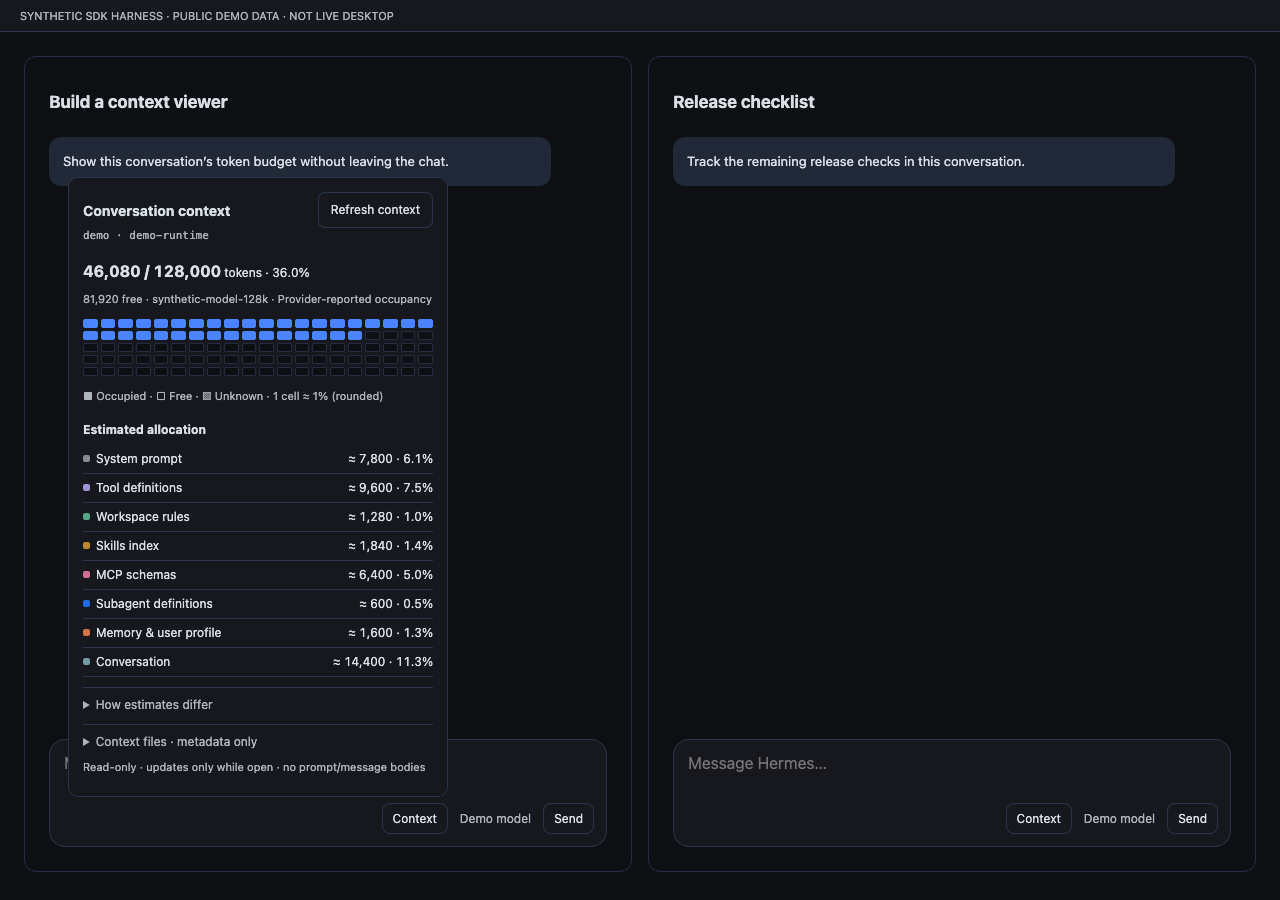
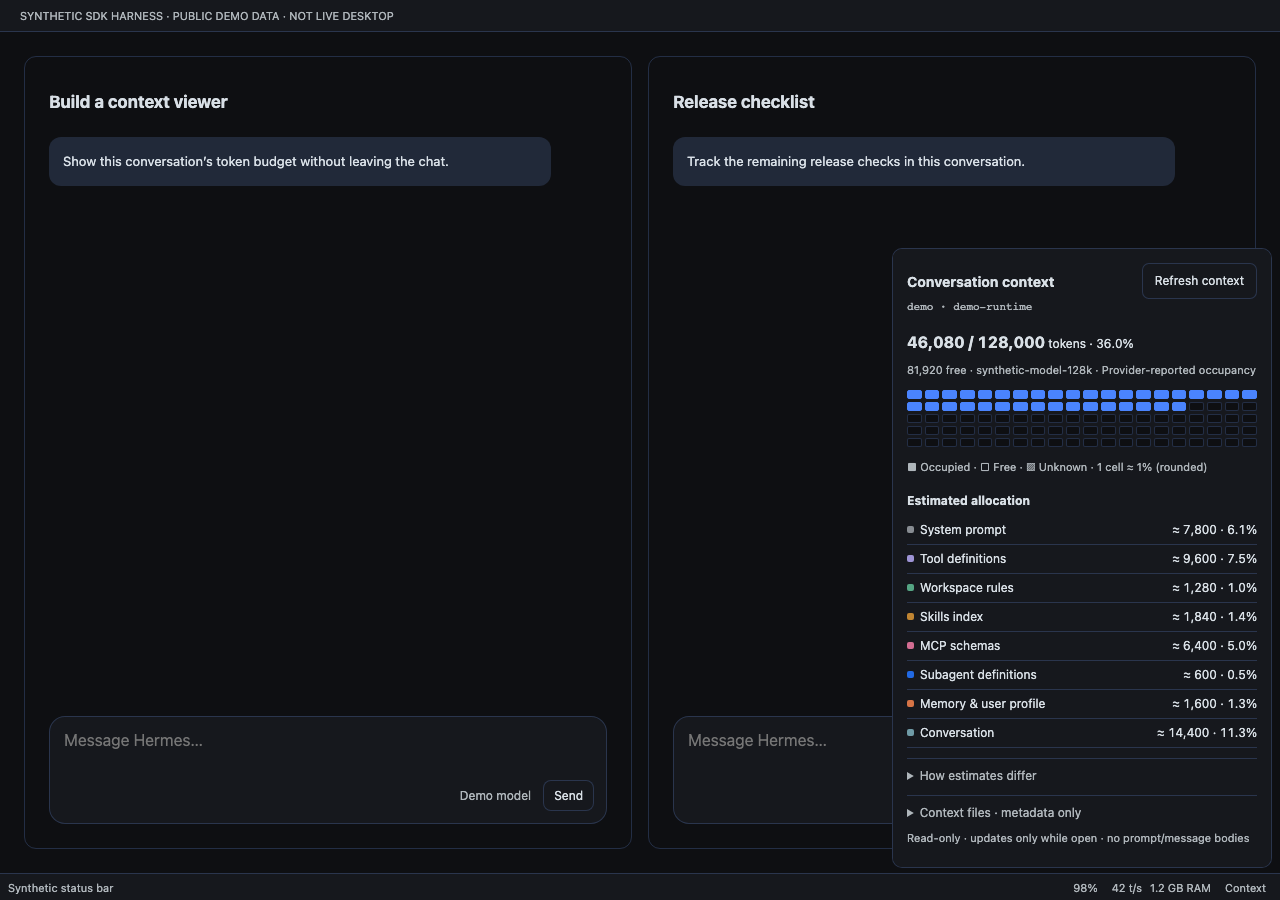
feat: move conversation context to bottom status bar

diff --git a/desktop/plugin.js b/desktop/plugin.js
@@ -55,11 +55,14 @@ function snapshot() {
   return { session, profile, connection, owner, focusedProfile, gateway: state.gateway.get(), instance: gatewayKey(), epoch: epochs.get() }
 }
 const stamp = value => JSON.stringify([value.connection, value.profile, value.owner?.connectionId, value.focusedProfile, value.session, value.gateway, value.instance, value.epoch])
-function routeFor(scope) {
-  if (!host.state.focusedSessionId || !host.state.focusedSessionOwner || !scope.owner) return { blocked: 'Session ownership is unresolved. A Desktop SDK with focused session ownership is required.' }
-  const connectionId = scope.owner?.connectionId ?? scope.connection
+const ownerKnown = scope => Boolean(host.state.focusedSessionId && host.state.focusedSessionOwner && typeof scope.owner?.connectionId === 'string' && scope.owner.connectionId && typeof scope.owner?.profile === 'string' && scope.owner.profile)
+async function routeFor(scope) {
+  if (!ownerKnown(scope)) return { blocked: 'Session ownership is unresolved. A Desktop SDK with focused session ownership is required.' }
+  const connectionId = scope.owner.connectionId
   if (connectionId === scope.connection && scope.focusedProfile === scope.profile) return { ambient: true }
-  const routes = host.profileRoutes?.() ?? []
+  let routes
+  try { routes = await host.profileRoutes?.() } catch { return { blocked: 'Connection/profile route discovery failed. Retry after the owning connection is available.' } }
+  if (!Array.isArray(routes)) return { blocked: 'Connection/profile route discovery is unavailable.' }
   const matches = routes.filter(route => route.connectionId === connectionId && (route.profile === scope.focusedProfile || route.targetProfile === scope.focusedProfile))
   if (matches.length === 1 && typeof host.requestProfile === 'function') return { route: matches[0] }
   return { blocked: 'The focused session has no unique connection/profile route. Return to its owning profile to view context.' }
@@ -95,16 +98,18 @@ function ContextPanel({ scope }) {
   const [revision, setRevision] = useState(0)
   const identity = stamp(scope)
   const busy = sessionBusy(scope)
-  const route = routeFor(scope)
+  const ownershipMissing = !ownerKnown(scope)
   const valid = () => identity === stamp(snapshot())
-  const enabled = Boolean(valid() && scope.session && scope.gateway === 'open' && !busy && !route.blocked)
+  const enabled = Boolean(valid() && scope.session && scope.gateway === 'open' && !busy && !ownershipMissing)
   const query = useQuery({
     queryKey: [ID, identity, busy, revision], enabled,
     queryFn: async ({ signal }) => {
       if (signal.aborted || !valid() || sessionBusy(scope)) throw new Error('scope-changed')
       // Resolve again at dispatch: a disconnected profile descriptor is not authority.
-      const target = routeFor(scope)
-      if (target.blocked) throw new Error('scope-changed')
+      const target = await routeFor(scope)
+      // Route discovery is asynchronous; no captured owner may dispatch after it changes.
+      if (signal.aborted || !valid() || sessionBusy(scope)) throw new Error('scope-changed')
+      if (target.blocked) throw Object.assign(new Error(target.blocked), { code: 'route-unavailable' })
       const params = { session_id: scope.session }
       const payload = target.ambient ? await host.request('session.context_breakdown', params, 15000) : await host.requestProfile(target.route, 'session.context_breakdown', params, 15000)
       if (signal.aborted || !valid() || sessionBusy(scope)) throw new Error('scope-changed')
@@ -113,7 +118,7 @@ function ContextPanel({ scope }) {
       return value
     },
     staleTime: 15000, gcTime: 0,
-    retry: (count, error) => valid() && !sessionBusy(scope) && count < 2 && error?.message !== 'scope-changed' && ![-32601, 4004].includes(error?.code) && !/method.*(not found|unknown)|unknown method/i.test(error?.message ?? ''),
+    retry: (count, error) => valid() && !sessionBusy(scope) && count < 2 && error?.message !== 'scope-changed' && !['route-unavailable', -32601, 4004].includes(error?.code) && !/method.*(not found|unknown)|unknown method/i.test(error?.message ?? ''),
     retryDelay: count => [1000, 4000][Math.min(count, 1)],
     refetchInterval: query => query.state.status === 'error' ? false : 60000,
     refetchIntervalInBackground: false, refetchOnWindowFocus: false, placeholderData: undefined
@@ -134,10 +139,10 @@ function ContextPanel({ scope }) {
   let message = null
   if (!scope.session) message = 'No session yet. Send a message in this conversation first.'
   else if (scope.gateway !== 'open') message = 'Gateway disconnected. Reopen Context after reconnecting.'
-  else if (route.blocked) message = route.blocked
+  else if (ownershipMissing) message = 'Session ownership is unresolved. A Desktop SDK with focused session ownership is required.'
   else if (busy) message = 'Session is busy. Context will refresh when this turn ends.'
   else if (query.isFetching || query.isPending) message = 'Loading context breakdown…'
-  if (!message && query.isError) message = query.error?.message === 'missing-window' ? 'No model window is available yet. Bounded retries finished; refresh after the runtime is ready.' : [-32601, 4004].includes(query.error?.code) || /method.*(not found|unknown)|unknown method/i.test(query.error?.message ?? '') ? 'Context breakdown is unavailable on this gateway. Hermes ≥0.22.2 with session.context_breakdown is required.' : 'Context could not be refreshed. No previous snapshot is shown. Check the gateway and retry.'
+  if (!message && query.isError) message = query.error?.code === 'route-unavailable' ? query.error.message : query.error?.message === 'missing-window' ? 'No model window is available yet. Bounded retries finished; refresh after the runtime is ready.' : [-32601, 4004].includes(query.error?.code) || /method.*(not found|unknown)|unknown method/i.test(query.error?.message ?? '') ? 'Context breakdown is unavailable on this gateway. Hermes ≥0.22.2 with session.context_breakdown is required.' : 'Context could not be refreshed. No previous snapshot is shown. Check the gateway and retry.'
   return jsxs('div', { children: [
     jsxs('header', { className: 'co-header', children: [jsx('h2', { children: 'Conversation context' }), jsx(Button, { type: 'button', variant: 'ghost', size: 'sm', disabled: !enabled || query.isFetching, onClick: refresh, children: 'Refresh context' })] }),
     jsx('code', { className: 'co-muted', children: `${text(scope.focusedProfile)} · ${text(scope.session, 'New conversation')}` }),
@@ -158,8 +163,7 @@ export function ContextControl() {
   const current = stamp(snapshot())
   const valid = Boolean(scope && stamp(scope) === current)
   useEffect(() => { if (scope && !valid) setScope(null) }, [current, valid, scope])
-  // Core window capture pointerdown/focusin routes the owning tree group BEFORE
-  // these handlers. Never display global usage in each closed composer instance.
+  // The status bar preserves the public focused owner; it never selects a composer.
   const arm = () => { activation.current = snapshot() }
   const openChange = open => {
     if (!open) { setScope(null); activation.current = null; return }
@@ -167,7 +171,7 @@ export function ContextControl() {
     if (captured && stamp(captured) === stamp(snapshot())) setScope(captured)
   }
   return jsxs(Popover, { open: valid, onOpenChange: openChange, children: [
-    jsx(PopoverTrigger, { asChild: true, children: jsx(Button, { type: 'button', variant: 'ghost', size: 'sm', onPointerDown: arm, onFocus: arm, onKeyDown: event => { if (event.key === 'Enter' || event.key === ' ') arm() }, children: 'Context' }) }),
+    jsx(PopoverTrigger, { asChild: true, children: jsx(Button, { type: 'button', variant: 'ghost', size: 'sm', style: { height: '100%', padding: '0 6px', border: 0, borderRadius: 0, fontSize: 11, color: 'var(--ui-text-secondary)' }, onPointerDown: arm, onFocus: arm, onKeyDown: event => { if (event.key === 'Enter' || event.key === ' ') arm() }, children: 'Context' }) }),
     valid && jsxs(PopoverContent, { side: 'top', align: 'end', collisionPadding: 8, className: 'hermes-context-overview', 'aria-label': 'Conversation context', onCloseAutoFocus: event => { if (stamp(scope) !== stamp(snapshot())) event.preventDefault() }, children: [jsx('style', { children: styles }), jsx(ContextPanel, { scope }, stamp(scope))] })
   ] })
 }
@@ -183,6 +187,6 @@ export default {
     for (const state of [host.state.connectionId, host.state.profile, host.state.gateway]) {
       if (state?.listen) ctx.onDispose(state.listen(() => epochs.set(epochs.get() + 1)))
     }
-    ctx.register({ id: 'context', area: sdk.COMPOSER_AREAS.actions, render: () => jsx(ContextControl, {}) })
+    ctx.register({ id: 'context', area: 'statusBar.right', render: () => jsx(ContextControl, {}) })
   }
 }

diff --git a/tests/harness-theme.css b/tests/harness-theme.css
@@ -20,8 +20,9 @@
  --context-usage-system:color-mix(in srgb,var(--ui-base) 55%,transparent);--context-usage-tools:var(--ui-purple);--context-usage-rules:var(--ui-green);--context-usage-skills:var(--ui-yellow);--context-usage-mcp:color-mix(in srgb,var(--ui-red) 72%,var(--ui-purple));--context-usage-subagents:color-mix(in srgb,var(--ui-blue) 70%,var(--ui-cyan));--context-usage-memory:color-mix(in srgb,var(--ui-orange) 80%,var(--ui-yellow));--context-usage-conversation:var(--ui-cyan);
 }
 :root.dark {color-scheme:dark;--theme-foreground:#e6edf3;--theme-midground:#4a84fe;--theme-primary:#4a84fe;--theme-card-seed:#010409;--theme-elevated-seed:#161b22;--theme-neutral-card:#161618;--theme-mix-card:38%;--theme-mix-elevated:46%;--ui-red:#e75e78;--ui-green:#55a583;--ui-cyan:#6f9ba6}
+.demo-shell{height:100%;display:flex;flex-direction:column}.demo-shell .demo-conversations{flex:1;min-height:0;height:auto}.demo-statusbar{height:26px;flex:none;border-top:1px solid var(--ui-stroke-secondary);display:flex;align-items:center;justify-content:space-between;font-size:11px;color:var(--ui-text-secondary);padding:0 8px;background:var(--ui-bg-elevated)}.demo-statusbar-right{display:flex;align-items:center;gap:8px;height:100%}.demo-statusbar button{font:inherit;color:inherit;background:transparent;border:0;cursor:pointer}.demo-statusbar button:hover{background:var(--ui-bg-secondary)}.demo-statusbar button:focus-visible{outline:2px solid var(--ui-accent);outline-offset:-2px}
 html,body,#app{height:100%;margin:0}body{font-family:system-ui,sans-serif;background:var(--ui-bg-editor);color:var(--ui-text-primary)}
-.synthetic-banner{padding:9px 20px;font-size:11px;background:var(--ui-bg-elevated);color:var(--ui-text-secondary);border-bottom:1px solid var(--ui-stroke-secondary)}#app{height:calc(100% - 36px)}
+body{display:flex;flex-direction:column}#app{flex:1;min-height:0;height:auto}.synthetic-banner{flex:none;padding:9px 20px;font-size:11px;background:var(--ui-bg-elevated);color:var(--ui-text-secondary);border-bottom:1px solid var(--ui-stroke-secondary)}
 .synthetic-sdk-button{font:inherit;font-size:12px;white-space:nowrap;padding:8px 12px;border-radius:7px;border:1px solid var(--ui-stroke-secondary);background:var(--ui-bg-elevated);color:var(--ui-text-primary);cursor:pointer}.synthetic-sdk-button:disabled{opacity:.55;cursor:default}
 
 .demo-conversations{display:grid;grid-template-columns:1fr 1fr;gap:16px;height:100%;padding:24px;box-sizing:border-box}.demo-conversation{min-width:0;position:relative;border:1px solid var(--ui-stroke-secondary);border-radius:12px;padding:24px;display:flex;flex-direction:column}.demo-conversation h1{font-size:17px}.demo-message{max-width:85%;padding:14px;border-radius:12px;background:var(--ui-bg-secondary);font-size:13px;line-height:1.6}.demo-composer{margin-top:auto;border:1px solid var(--ui-stroke-secondary);border-radius:16px;padding:12px;background:var(--ui-bg-elevated)}.demo-composer textarea{width:100%;box-sizing:border-box;resize:none;border:0;background:transparent;color:var(--ui-text-primary);font:inherit;min-height:48px}.demo-actions{display:flex;align-items:center;justify-content:flex-end;gap:12px;font-size:12px;color:var(--ui-text-secondary)}.demo-actions button{font:inherit;color:var(--ui-text-primary);border:1px solid var(--ui-stroke-secondary);border-radius:8px;padding:7px 10px;background:var(--ui-bg-elevated)}

diff --git a/docs/verification.md b/docs/verification.md
@@ -1,60 +1,61 @@
-# Verification boundary — 1.1.0
+# Verification boundary — 1.2.0
 
 ## Results
 
-The actual production ESM contribution passed **22 tests: 14 Chromium browser-harness tests plus 8 entry/normalization/privacy tests**, with no failures or skips. These use real React, React Query and Radix UI **1.6.7**, matching the inspected Desktop dependency. SDK atoms/RPC/events, contribution registry, native Button/wrapper styling and host focus routing are explicit synthetic seams.
+The actual production ESM contribution passed **32 tests: 24 Chromium browser-harness tests plus 8 entry/normalization/privacy tests**, with no failures or skips. These use real React, React Query and Radix UI **1.6.7**, matching the inspected Desktop dependency. SDK atoms/async routing/RPC/events, contribution registry, native Button/wrapper styling and host focus routing are explicit synthetic seams. This is source/browser verification, not a live Desktop installation.
 
 | Command | Result | Retained evidence |
 | --- | --- | --- |
-| `node --check desktop/plugin.js` | exit 0 | `.local/final-node-check.log` |
-| `pnpm test` | 22 pass, 0 fail, 0 skip | `.local/final-tests.log` |
-| `hermes plugins doctor --ci .` | **exit 1**, known Desktop-only tooling limitation | `.local/final-doctor.log` |
-| `hermes plugins validate . --install-deps` | exit 0; SDK surface valid; documentation-only `context_exfil` heuristic caution | `.local/final-validate.log` |
+| `node --check desktop/plugin.js` | exit 0 | `.local/evidence/final-node-check.log` |
+| `pnpm test` | 32 pass, 0 fail, 0 skip | `.local/evidence/final-tests.log` |
+| `hermes plugins doctor --ci .` | **exit 1**, known Desktop-only tooling limitation | `.local/evidence/final-doctor.log` |
+| `hermes plugins validate . --install-deps` | exit 0; SDK surface valid; security scan safe; Python capability probe skipped | `.local/evidence/final-validate.log` |
 
-`node scripts/verify.mjs` preserves command output and writes `.local/evidence.json` with command exit codes, log SHA-256 values and a sorted candidate file/size/SHA-256 inventory. The script exits 1 while doctor fails; it never turns that failure into a passing check. Local validation reused the original checkout’s existing Playwright browser cache through `PLAYWRIGHT_BROWSERS_PATH`; dev dependencies were installed only in this isolated worktree using pnpm. No Hermes dependencies or browsers were installed into the runtime checkout.
+`node scripts/verify.mjs` preserves command output and writes `.local/evidence/evidence.json` with command exit codes, log SHA-256 values and a sorted candidate file/size/SHA-256 inventory. The script exits 1 while doctor fails; it never turns that failure into a passing check. Local validation reused the original checkout’s existing Playwright browser cache through `PLAYWRIGHT_BROWSERS_PATH`; dev dependencies were installed only in this isolated worktree using pnpm. No Hermes dependencies or browsers were installed into the runtime checkout.
 
 The doctor tries Python registration and fails `No __init__.py` for this Desktop-only package. The native-aware validator accepts `desktop/plugin.js`, skips Python capability probing, reports portable/no Python and passes. No dummy Python shim was added. Doctor coverage is unavailable, not a native renderer failure or a passing gate.
 
-## Why activation can identify the owning composer
+## Public status-bar surface and focused ownership
 
 Inspected runtime reference: `d923a5eb487a17c0a68801bba9ef0f56c81040a8`. Relevant files under `apps/desktop/src/`:
 
-- `app/chat/composer/contrib.ts:31–41`: `COMPOSER_AREAS.actions = 'composer.actions'`.
-- `app/chat/composer/index.tsx:1544–1546`: every composer mounts that inline slot immediately before its controls.
-- `contrib/react/slot.tsx:10–22`: render callbacks receive **no composer/session props**. Private `useComposerScope` / `useSessionView` are not SDK exports and are not imported.
+- `app/contrib/panes.tsx:155–185`: `useStatusbarContributions('right')` accepts `statusBar.right` contributions with `render()`, preserving a stateful component in the bottom bar.
+- `app/shell/statusbar-controls.tsx:28–31,46–51`: native compact status-bar action styling and arbitrary render-item ownership. The plugin uses the SDK Button with compact 11px text, 6px horizontal padding and full slot height; no native indicator is replaced.
+- `sdk/index.ts:1478–1496`: `host.profileRoutes()` is **asynchronous**. The query awaits discovery and checks captured authority again before dispatch, instead of filtering a Promise during render.
 - `components/pane-shell/tree/renderer/index.tsx:38–45`: the tree root installs `trackActiveTreeGroup`.
 - `components/pane-shell/tree/store.ts:542–578`: the host resolves the event’s owning tree group and publishes it from **window capture listeners** for `pointerdown` and `focusin`.
 - `store/session-focus.ts:46–92`: interacted group / active chat pane derives focused stored session identity; SDK `host.state.focusedSessionId` / `focusedSessionOwner` expose runtime identity and connection-qualified ownership.
 - `components/ui/popover.tsx`: native SDK Popover delegates to Radix, portals the content and forwards normal focus/dismissal props. `apps/desktop/package.json` pins `radix-ui` at 1.6.7.
 
-Window capture runs before the button’s React pointer/focus/key handlers and the trigger’s click/open handler. The plugin captures the public focused identity at activation, not at mount, and never retargets an open instance. Inactive composers show the generic Context label and issue no requests. It neither reads those private DOM markers itself nor installs global handlers.
+The host selects the focused conversation before status-bar activation. The single plugin button captures that public identity and never selects a composer or retargets an open popup. A closed button issues no requests or route discovery. The plugin neither reads private DOM markers nor installs global handlers.
 
-**Emulated host seam:** `tests/harness.mjs` renders two conversation sections and mounts the actual registered contribution once per composer. Its window-capture pointer/focus handler reproduces the inspected host’s ordering and maps each synthetic group to a different runtime session/owner. It does not mount the real Desktop tree/store. This establishes browser behavior under the source-derived routing contract, not live Desktop integration. Other layouts/versions without that routing have not been qualified.
+**Emulated host seam:** `tests/harness.mjs` renders two conversation sections with ordinary composers and exactly one actual contribution in a bottom `footer`. A separate synthetic existing button is explicitly labelled `prompt-cache hit-rate 98%`, beside synthetic t/s and RAM. Its markup and behavior remain unchanged through Context interactions. The harness window-capture pointer/focus handler selects a conversation only for interactions inside that conversation; status-bar activation preserves the last public owner. It does not mount the real Desktop shell/tree/store.
 
-`composer.microActions` was inspected but is unnecessary: its provider receives a session ID, while the returned action is a host-rendered badge with no custom popover anchor/render lifecycle. The regular inline action plus the existing focus routing preserves a native conversation-local trigger and per-instance state without extra global coordination.
+No composer, page, sidebar, titlebar or palette contribution remains. Existing SDK React Query and Radix Popover behavior is reused without core changes, backend work, collectors or new production dependencies.
 
 ## Covered behavior
 
-- **Actual registration boundary:** only `composer.actions`; no route, sidebar, palette or top contribution.
-- **Two-composer ownership:** no eager RPC from either instance; click the second to obtain its exact foreign profile descriptor and 60% budget; keyboard-activate the first for its ambient owner and 36% budget; return to the second with Space. No wrong-session model/budget appears.
+- **Actual registration boundary:** only `statusBar.right`, exactly one Context button in the bottom bar; no composer/page/titlebar/sidebar/palette contribution. Separate synthetic 98% cache indicator remains unchanged and does not open Context.
+- **Two-conversation ownership:** focus conversation 2 then click bottom Context for its exact foreign descriptor and 60% budget; focus conversation 1 then keyboard-activate the same button for its ambient route and 36% budget; return to conversation 2 with Space. No wrong-session model/budget appears. Status-bar focus does not choose another composer.
 - Escape dismissal/focus return and outside dismissal. Forced owner dismissal does not steal focus back from the newly activated composer.
 - Pending first-session result arriving after second-session activation cannot paint the new popup. Owner/profile/session changes close instead of silently retargeting. Reconnect with identical labels rejects the prior gateway’s result until deliberate reopen.
 - Session-specific busy suppression; unrelated conversation busy state neither hides nor refetches the current owner.
-- Missing/ambiguous owner routes and missing ownership metadata fail closed, without an ambient fallback. Fresh conversation has an explicit empty state.
+- Missing/ambiguous owner routes, rejected async discovery and absent/incomplete ownership metadata fail closed without ambient fallback. Deferred route discovery resolving after owner/session/profile/connection/gateway/busy changes or dismissal dispatches no RPC. Discovery rejection is redacted and not retried. Fresh conversations have an explicit empty state.
+- Busy-session replies remain hidden; a fresh idle query is required. Closed controls issue no background requests across two simulated 60-second idle intervals, and no eager route discovery occurs.
 - Overall occupancy/free conservation and proportional/bounded 100-cell rounding; independent estimates, provenance, malformed/unsafe numbers, unknown/overbudget values, zero conversation, Unicode and absent arrays.
 - Loading, redacted errors, exactly two transient retries, compatibility error without retries, zero-window rebuild and explicit recovery. No stale snapshot during refresh/failure.
 - Only metadata projection; raw bodies and supplied CSS colors are ignored, text is escaped, only `session.context_breakdown({session_id})` is allowed by the host adapter.
 - Completion/compression/reclaim invalidation while open, foreign-session filtering, no event observers while closed and event/atom cleanup on disposal.
 
-Parent review added a failing cross-connection regression using the public gateway event's `connectionId` field: a foreign source with an identical runtime ID wrongly triggered a refresh. The production filter now uses the real SDK field; the test preserves the no-invalidation assertion for that foreign source.
+The existing cross-connection regression uses the public gateway event's `connectionId` field: a foreign source with an identical runtime ID must not trigger refresh. This isolation remains covered.
 
-A browser regression initially exposed Radix’s close autofocus stealing focus back from the old conversation during a two-composer switch. The production `onCloseAutoFocus` now suppresses return only when the captured identity has changed; normal Escape still returns to the original trigger. A narrow screenshot initially captured an internally scrolled panel; exports now reset scrolling and use the lower composer at narrow widths so the summary and synthetic disclosure remain visible.
+`onCloseAutoFocus` suppresses focus return only when captured identity changes; normal Escape returns to the bottom trigger. Forced owner changes do not steal focus from the newly focused conversation. Click-to-toggle and outside dismissal are exercised. Screenshots reset internal scrolling; the synthetic shell adapts to the banner wrapping at narrow widths so the bottom bar stays within the viewport.
 
 ## Visual evidence
 
-`docs/screenshots/harness-{light,dark}-{1280,390}.png` show actual plugin output in synthetic conversation composers. They are visibly marked **SYNTHETIC SDK HARNESS · PUBLIC DEMO DATA · NOT LIVE DESKTOP**. The narrow/wide light/dark images retain the normal 900px viewport rather than enlarging a full-page dashboard. Popovers are viewport-bounded and internally scrollable when disclosures expand; browser assertions check panel bounds and horizontal containment.
+`docs/screenshots/harness-{light,dark}-{1280,390}.png` show actual plugin output anchored to a synthetic bottom status-bar button, not either composer. They are visibly marked **SYNTHETIC SDK HARNESS · PUBLIC DEMO DATA · NOT LIVE DESKTOP**. The narrow/wide light/dark images retain the normal 900px viewport rather than enlarging a full-page dashboard. Popovers are viewport-bounded and internally scrollable when disclosures expand; browser assertions check panel bounds and horizontal containment.
 
-Theme values/formulas come from the inspected runtime and are attributed in `tests/harness-theme.css` / `LICENSE`; native Button styling remains a disclosed approximation. `.local/browser-visual-checks.json` records sampled secondary-text contrast above 4.5:1 in both themes. This is not exhaustive WCAG or native-theme parity proof. `.local/browser-console.json` is empty for the passing run. Wide dark and narrow light screenshots were visually inspected for composer placement, readable hierarchy and clipping.
+Theme values/formulas come from the inspected runtime and are attributed in `tests/harness-theme.css` / `LICENSE`; native Button styling remains a disclosed approximation. `.local/browser-visual-checks.json` records sampled secondary-text contrast above 4.5:1 in both themes. This is not exhaustive WCAG or native-theme parity proof. `.local/browser-console.json` is empty for the passing run. Wide dark and narrow light screenshots were visually inspected for bottom placement, the separate cache indicator, readable hierarchy and clipping.
 
 ## Not established / not performed
 
@@ -62,4 +63,4 @@ Theme values/formulas come from the inspected runtime and are attributed in `tes
 - No installed app-root copy, enablement, hot reload, app restart, permissions/config changes, or native screenshots.
 - No GitHub CI execution, source publication, catalog change, commit or push.
 
-Before claiming native installation, the owner should read back the installed entry, enable through the native Plugins UI, and activate Context by pointer/keyboard in two real conversation tiles with distinct owners/budgets. Check switching while a request is pending, disconnect/reconnect, Escape focus return and disabling teardown. Do not restart an active session solely to obtain a screenshot. Parent review, installation and any external publication remain separate authorized steps.
+Before claiming native installation, the owner should read back the installed entry, enable through the native Plugins UI, and focus each of two real conversation tiles with distinct owners/budgets, then activate the same bottom Context button by pointer/keyboard. Confirm the native cache/t/s/RAM indicators are unchanged. Check switching while a request is pending, disconnect/reconnect, Escape focus return and disabling teardown. Do not restart an active session solely to obtain a screenshot. Parent review, installation and any external publication remain separate authorized steps.

diff --git a/README.md b/README.md
@@ -1,14 +1,14 @@
 # Context Overview for Hermes Desktop
 
-**Version 1.1.0:** a compact **Context** control beside each conversation’s composer controls. Open it to inspect that conversation’s token budget without leaving the chat. There is no sidebar page, command-palette navigation, global top box or new collector.
+**Version 1.2.0:** one new **Context** button in the **bottom status bar**, alongside the existing prompt-cache hit-rate, t/s and RAM indicators. The existing **98% cache indicator is untouched**; it is not the context button. Composer controls have been removed. There is no top-right/titlebar control, sidebar page, command-palette navigation or new collector.
 
-![Synthetic browser harness: two conversation composers and one local Context popover](docs/screenshots/harness-dark-1280.png)
+![Synthetic browser harness: two conversations and a new bottom status-bar Context popover](docs/screenshots/harness-dark-1280.png)
 
 **Screenshot disclosure:** these are the actual plugin entry rendered in a **synthetic SDK browser harness**, not live Hermes Desktop. All conversations, identifiers, paths and budgets are public demo fixtures. [Narrow light](docs/screenshots/harness-light-390.png), [wide light](docs/screenshots/harness-light-1280.png), [narrow dark](docs/screenshots/harness-dark-390.png).
 
 ## Use
 
-Click **Context** beside the model/send controls, or focus the button and press Enter/Space. A native SDK popover opens above that composer, with:
+Focus the conversation you want to inspect, then click **Context** in the bottom status bar, or focus the button and press Enter/Space. The button does not select or focus a different composer. A native SDK popover opens above the status-bar button, with:
 
 - Occupied / capacity tokens, percent occupied, free budget, model and occupancy provenance.
 - A **100-cell** overall occupancy grid and compact estimated category list.
@@ -19,13 +19,13 @@ Escape or an outside interaction dismisses it. Escape returns focus to the trigg
 
 ## Per-conversation ownership
 
-`composer.actions` mounts the control separately in every composer. Its render callback does **not** receive a session ID, so a closed button deliberately says only **Context**: it never duplicates global focused-session numbers across all conversations.
+`statusBar.right` registers exactly one stateful render contribution. The closed button deliberately says only **Context**; no query or route discovery runs until activation.
 
-Binding happens at user activation, after the host’s window-capture pointer/focus routing has selected the owning conversation. The instance captures the public `focusedSessionId` and connection-qualified `focusedSessionOwner`, ambient connection/profile, gateway identity and lifecycle epoch. It keeps that identity fixed until dismissal. Any identity change immediately gates content and unmounts the query; pending old-scope responses cannot paint a new conversation. Forced dismissal suppresses the old popover’s focus return so it cannot steal focus back from the newly activated composer.
+Binding happens at user activation to the host’s already focused conversation. The instance captures the public `focusedSessionId` and connection-qualified `focusedSessionOwner`, ambient connection/profile, gateway identity and lifecycle epoch. It keeps that identity fixed until dismissal. Any identity change immediately gates content and unmounts the query; pending old-scope responses cannot paint a new conversation. Forced dismissal suppresses focus return so it cannot steal focus from a newly focused conversation; normal Escape returns focus to the status-bar trigger.
 
-RPC dispatch uses the exact `profileRoutes()` descriptor plus `requestProfile()` for a foreign owner, or `host.request()` only for the matching ambient owner. Missing/ambiguous routes or owner metadata fail closed. Busy state comes from `busyBySession[capturedSession]` when available, otherwise the focused busy atom only while captured identity still matches. Other sessions’ busy updates do not hide or refetch this popup.
+RPC dispatch **awaits `host.profileRoutes()`** inside the query and uses the exact descriptor plus `requestProfile()` for a foreign owner, or `host.request()` only for a matching ambient owner. After asynchronous discovery, the captured session/owner/connection/profile/gateway and busy state are checked again before dispatch. Missing/ambiguous routes, rejected discovery or incomplete owner metadata fail closed with no ambient fallback. Busy state comes from `busyBySession[capturedSession]` when available, otherwise the focused busy atom only while captured identity still matches. Other sessions’ busy updates do not hide or refetch this popup.
 
-This depends on the inspected Desktop tree’s existing **window-capture `pointerdown` / `focusin` ownership routing**. It does not invent session render props, import private composer hooks, scan host DOM, or patch core. The source references and the explicitly emulated host seam are recorded in [verification](docs/verification.md). Browser tests are not proof of live native integration or support for other host layouts that omit that routing.
+The host publishes focused ownership; the status bar preserves it. The plugin does not invent session render props, import private composer hooks, scan host DOM, or patch core. Source references and the explicitly emulated host seam are recorded in [verification](docs/verification.md). Browser tests are not proof of live native integration or alternate host layouts.
 
 ## What the numbers mean
 
@@ -37,7 +37,7 @@ This depends on the inspected Desktop tree’s existing **window-capture `pointe
 
 ## Requirements
 
-`plugin.yaml` declares **Hermes >=0.22.2** as the RPC baseline, not a guarantee that every older Desktop build has the necessary SDK. The host must expose `COMPOSER_AREAS.actions`, native `Button`/`Popover*`, React Query, `focusedSessionId`, `focusedSessionOwner`, connection/profile/gateway state and the existing tree ownership routing. Foreign-owner sessions also need `profileRoutes()` / `requestProfile()`.
+`plugin.yaml` declares **Hermes >=0.22.2** as the RPC baseline, not a guarantee that every older Desktop build has the necessary SDK. The host must expose the public `statusBar.right` render contribution, native `Button`/`Popover*`, React Query, `focusedSessionId`, `focusedSessionOwner`, connection/profile/gateway state and the existing tree ownership routing. Foreign-owner sessions also need `profileRoutes()` / `requestProfile()`.
 
 The implementation was checked against runtime `d923a5eb487a17c0a68801bba9ef0f56c81040a8` and the SDK reference supplied during development. Missing RPC methods show a compatibility message without retries. Transient errors and missing model windows retry twice, then stop; no stale budget is presented. There is no legacy active-session fallback without focused ownership.
 
@@ -62,18 +62,18 @@ Queries and event listeners exist only while a popup is open. Explicit refresh, 
 ## Development and evidence
 
 ```sh
-pnpm install --frozen-lockfile --ignore-scripts
-pnpm exec playwright install chromium
+pnpm install --offline --frozen-lockfile --ignore-scripts
+# Set PLAYWRIGHT_BROWSERS_PATH to an existing Chromium cache when available.
 node --check desktop/plugin.js
 pnpm test
 hermes plugins doctor --ci .
 hermes plugins validate . --install-deps
 ```
 
-Dev dependencies only; production is plain ESM with no build step. Browser tests mount the actual registered contribution in **two simultaneous synthetic conversation composers** using real React/React Query and **Radix UI 1.6.7**, the inspected host’s popover primitive/version. Gateway state, focus routing, contribution registry and Button/native wrapper styling remain explicit seams. Tests cover pointer/keyboard ownership, exact owner RPC routing, different budgets, stale-result isolation, lifecycle/retry/privacy behavior and four public screenshots.
+Dev dependencies only; production is plain ESM with no build step. Browser tests mount the actual registered contribution in **one synthetic bottom status bar and two simultaneous conversations** using real React/React Query and **Radix UI 1.6.7**, the inspected host’s popover primitive/version. Gateway state, focus routing, contribution registry and Button/native wrapper styling remain explicit seams. Tests cover pointer/keyboard ownership, exact owner RPC routing, different budgets, stale-result isolation, lifecycle/retry/privacy behavior and four public screenshots.
 
-`node scripts/verify.mjs` retains command logs and candidate hashes under ignored `.local/`. The known doctor `No __init__.py` failure is reported as a Desktop-only tooling limitation, not hidden with a dummy Python shim. See [verification](docs/verification.md) for results and limits. No live native renderer, connected gateway, catalog approval or publication is claimed.
+`node scripts/verify.mjs` retains full command logs and candidate hashes under ignored `.local/evidence/`. The known doctor `No __init__.py` failure is reported as a Desktop-only tooling limitation, not hidden with a dummy Python shim. See [verification](docs/verification.md) for results and limits. No live native renderer, connected gateway, catalog approval or publication is claimed.
 
-Core’s global statusbar popover and CLI collector plugins address different surfaces. This package adds an in-conversation inspector by reusing the existing RPC, not by forking core or adding a collector.
+This package adds a separate bottom status-bar inspector by reusing the existing RPC, not by changing native cache/performance indicators, forking core or adding a collector.
 
 MIT · AsoTora. Theme-token provenance: `tests/harness-theme.css` and `LICENSE`.
